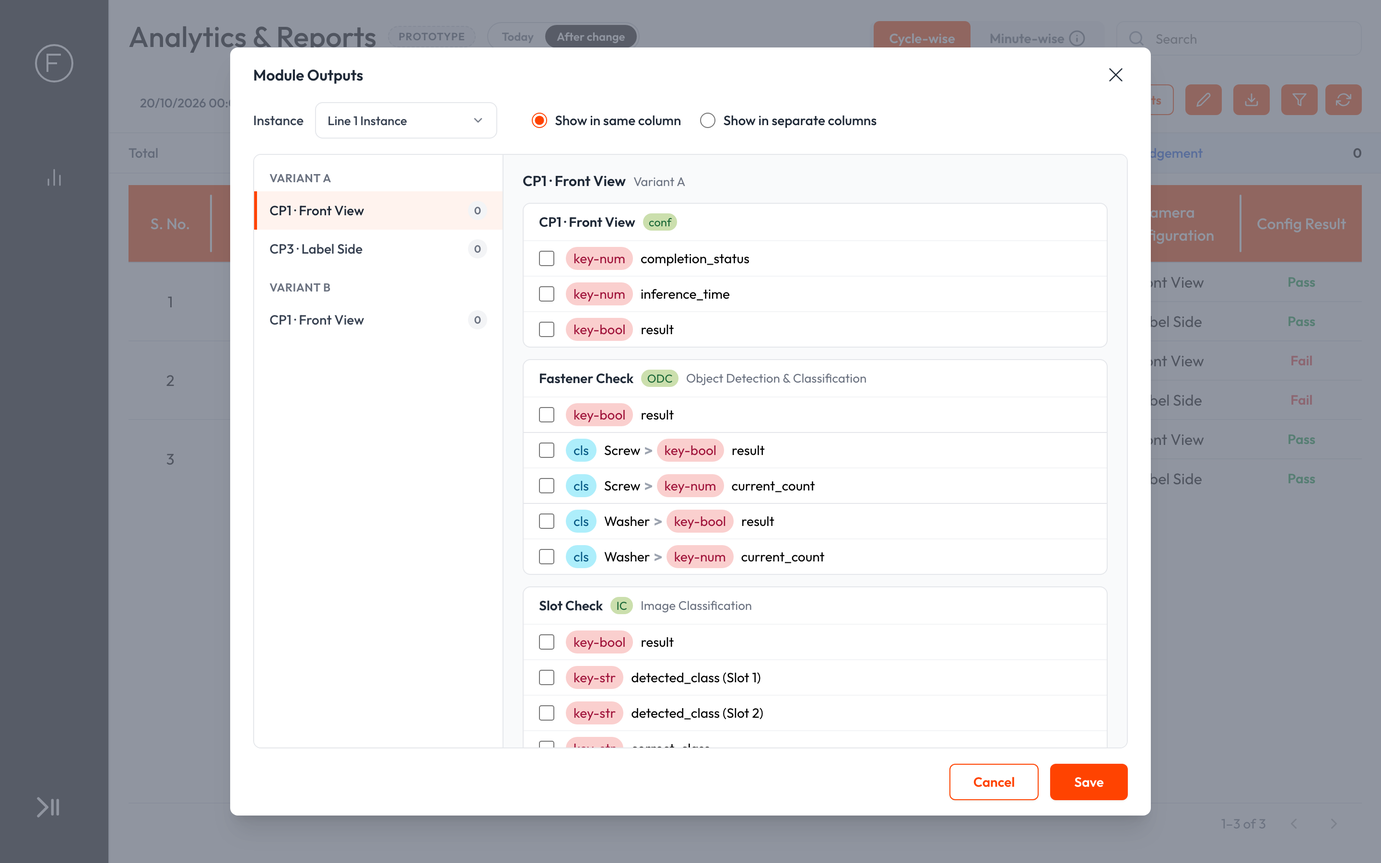
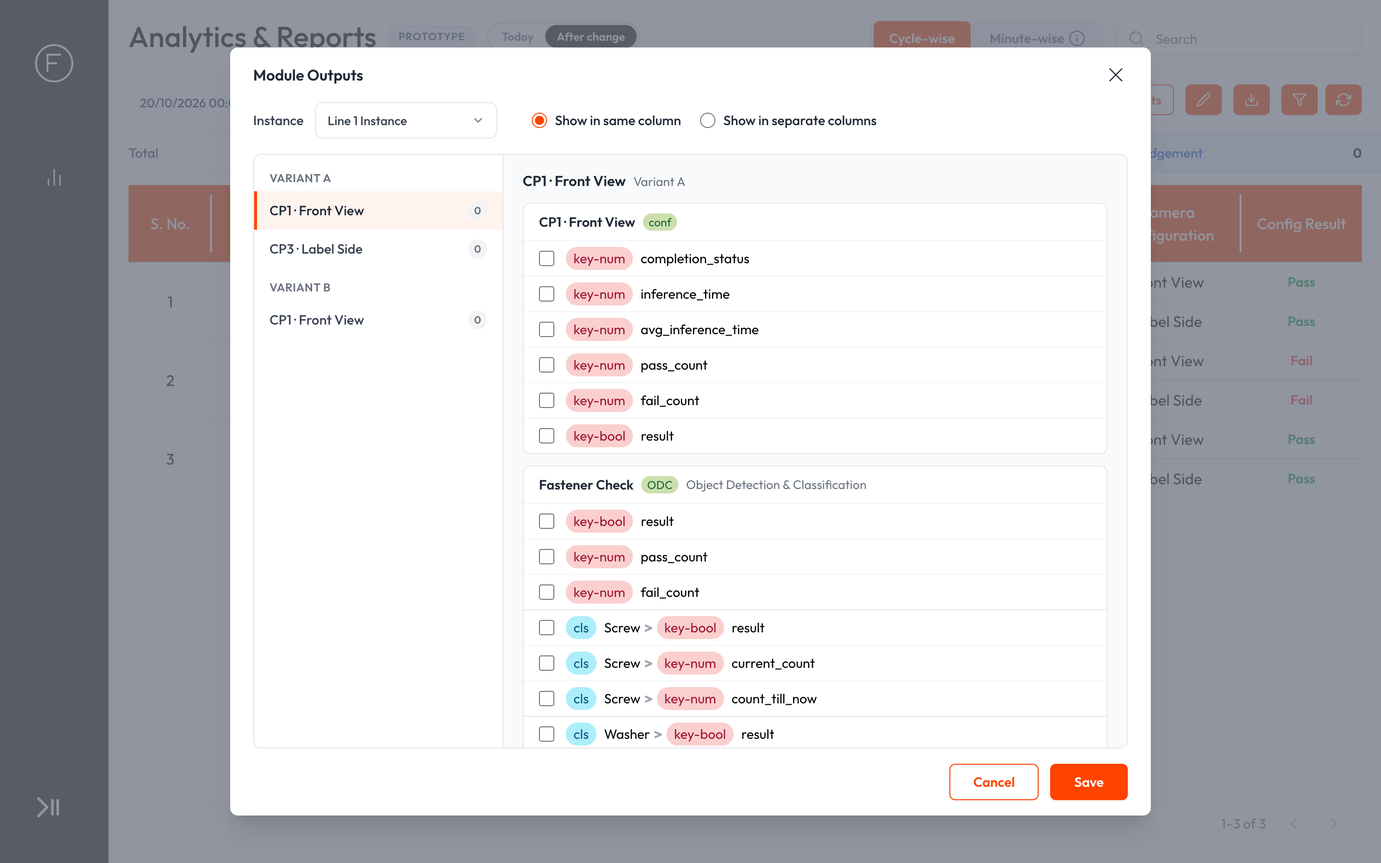
Module Outputs PRD: Q1 and Q3 decided, running totals offered, per-line shape keys

Changed region(s): [[0.375, 0.3733, 0.625, 0.8711], [0.5938, 0.4356, 0.625, 0.4667]]

diff --git a/2026-10-20-module-outputs-reports/prototype/shared.js b/2026-10-20-module-outputs-reports/prototype/shared.js
@@ -21,28 +21,33 @@
   // ---------- Edge system keys each capture offers (systemKeyDefinition.ts) ----------
   // t = datatype (1 bool, 2 str, 3 num); s = suffix exactly as stored; sample = Display Name in the sample setup (ticked).
   const K = (t, s, sample) => ({ t, s, sample: sample || null });
-  // Keys that add up or average across cycles (pass_count, fail_count, count_till_now, avg_inference_time) are not offered.
-  const modKeys = () => [K(1, 'result')];
+  const modKeys = () => [K(1, 'result'), K(3, 'pass_count'), K(3, 'fail_count')];
   const confCard = (cap) => ({ name: `${cap.pos} · ${cap.name}`, code: 'conf', conf: true, keys: [
-    K(3, 'completion_status'), K(3, 'inference_time'), K(1, 'result')] });
-  const clsKeys = (cls, countName) => ({ name: cls, keys: [K(1, 'result'), K(3, 'current_count', countName)] });
+    K(3, 'completion_status'), K(3, 'inference_time'), K(3, 'avg_inference_time'),
+    K(3, 'pass_count'), K(3, 'fail_count'), K(1, 'result')] });
+  const clsKeys = (cls, countName) => ({ name: cls, keys: [K(1, 'result'), K(3, 'current_count', countName),
+    K(3, 'count_till_now')] });
   // Dimensions: the same five variant-level keys, listed under each capture the dimension measures.
   const dimCard = (name, sample, cross) => ({ id: 'DIM:' + name, name, type: 'Dimensions', code: 'DIM', cross: cross || null, keys: [
     K(1, 'dim_result'), K(3, 'dim_predicted_value', sample), K(2, 'dim_unit_used'), K(2, 'dim_process'), K(2, 'dim_current_gt')] });
   const seKeys = (shape) => [K(3, `shape:${shape}_angle`), K(3, `shape:${shape}_length`), K(3, `shape:${shape}_error_pct`)];
+  // Edge Search: error % plus the per-line keys Edge now registers (lines 1 … the shape's maximum results).
+  const edgeSearchKeys = (shape, lines) => [K(3, `shape:${shape}_error_pct`)].concat(
+    Array.from({ length: lines }, (_, i) => [K(3, `shape:${shape}_line:${i + 1}_angle`), K(3, `shape:${shape}_line:${i + 1}_length`)]).flat());
 
   const A_CP1 = [
     { name: 'Fastener Check', type: 'Object Detection & Classification', code: 'ODC', keys: modKeys(),
       classes: [clsKeys('Screw', 'Screw count'), clsKeys('Washer', 'Washer count')] },
     { name: 'Slot Check', type: 'Image Classification', code: 'IC', keys: modKeys().concat([
       K(2, 'detected_class (Slot 1)', 'Slot 1 class'), K(2, 'detected_class (Slot 2)', 'Slot 2 class'), K(2, 'correct_class')]) },
-    { name: 'Bracket Edge', type: 'Shape Extractor', code: 'SE', keys: seKeys('Bracket') },
+    { name: 'Bracket Edge', type: 'Shape Extractor', code: 'SE', lines: true, keys: edgeSearchKeys('Bracket', 2) },
     // Cross-capture: measured from Bracket Edge here to Label Edge in CP3; ticked under CP3 only in the sample.
     dimCard('Distance_LabelGap', null, 'Front View, Label Side'),
   ];
   const A_CP3 = [
     { name: 'Serial Reader', type: 'OCR', code: 'OCR', keys: modKeys().concat([
-      K(2, 'detected_text', 'Serial No.'), K(2, 'labelName:Serial_gt_text'), K(1, 'labelName:Serial_result')]) },
+      K(2, 'detected_text', 'Serial No.'), K(2, 'labelName:Serial_gt_text'), K(1, 'labelName:Serial_result'),
+      K(2, 'labelName:Serial_pass_count'), K(2, 'labelName:Serial_fail_count')]) },
     { name: 'QR Reader', type: 'Code Reader', code: 'CR', keys: modKeys().concat([
       K(2, 'detected_string', 'QR code'), K(2, 'gt_string')]) },
     { name: 'Surface Check', type: 'Segmentation', code: 'SEG', keys: [] },
@@ -51,12 +56,13 @@
   ];
   const B_CP1 = [
     { name: 'Seal Check', type: 'Bead Inspection', code: 'BEAD', keys: [
-      K(1, 'result', 'Bead result'),
+      K(1, 'result', 'Bead result'), K(3, 'pass_count'), K(3, 'fail_count'),
       K(3, 'caliper_pass_percentage', 'Caliper pass %'), K(2, 'bead_class_name'), K(1, 'bead:Door seal_result'),
+      K(3, 'bead:Door seal_pass_count'), K(3, 'bead:Door seal_fail_count'),
       K(1, 'bead:Door seal_bead_width'), K(1, 'bead:Door seal_bead_gap/position')] },
     { name: 'Cap Colour', type: 'Colour Detection', code: 'CD', keys: modKeys().concat([
-      K(2, 'colorName:Red_detected_color'), K(1, 'colorName:Red_result'),
-      K(3, 'colorName:Red_distribution_percentage', 'Red coverage')]) },
+      K(2, 'colorName:Red_detected_color'), K(1, 'colorName:Red_result'), K(3, 'colorName:Red_pass_count'),
+      K(3, 'colorName:Red_fail_count'), K(3, 'colorName:Red_distribution_percentage', 'Red coverage')]) },
     { name: 'Hole Fit', type: 'Shape Extractor', code: 'SE', keys: [
       K(3, 'shape:Hole_radius', 'Hole radius'), K(3, 'shape:Hole_perimeter'), K(3, 'shape:Hole_area'),
       K(3, 'shape:Hole_circularity'), K(3, 'shape:Hole_convexity'),
@@ -153,7 +159,8 @@
       'ODC|result': b(odcOk), 'ODC|cls:Screw|result': b(odcOk), 'ODC|cls:Screw|current_count': String(screws),
       'ODC|cls:Washer|result': 'true', 'ODC|cls:Washer|current_count': '2',
       'IC|result': b(icOk), 'IC|detected_class (Slot 1)': 'Good', 'IC|detected_class (Slot 2)': slot2, 'IC|correct_class': 'Good',
-      'SE|shape:Bracket_angle': angle, 'SE|shape:Bracket_length': '184.30', 'SE|shape:Bracket_error_pct': '0.42' }, dimOut(gap));
+      'SE|shape:Bracket_error_pct': '0.42', 'SE|shape:Bracket_line:1_angle': angle, 'SE|shape:Bracket_line:1_length': '184.30',
+      'SE|shape:Bracket_line:2_angle': '-0.31', 'SE|shape:Bracket_line:2_length': '96.12' }, dimOut(gap));
   }
   function cp3Out(serial, code, ms, angle, gap) {
     const read = code !== '—';

diff --git a/2026-10-20-module-outputs-reports/prototype/reports.html b/2026-10-20-module-outputs-reports/prototype/reports.html
@@ -554,7 +554,7 @@ td.empty{padding:8px;text-align:center;font-size:16px;color:var(--label);backgro
   </div>
 </div>
 
-<script src="shared.js?v=20261026b"></script>
+<script src="shared.js?v=20261026c"></script>
 <script>
 (function () {
   const $ = (id) => document.getElementById(id);
@@ -664,7 +664,7 @@ td.empty{padding:8px;text-align:center;font-size:16px;color:var(--label);backgro
   const params = new URLSearchParams(location.search);
   const mode = MO.modeFromUrl();
   const rawState = params.get('state') || '';
-  const ALIAS = { reports: 'table', 'setup-empty': 'setup', setup: 'choose', 'setup-cross': 'choose', 'setup-more': 'more-modules', 'setup-more-end': 'more-modules' };
+  const ALIAS = { reports: 'table', 'setup-empty': 'setup', setup: 'choose', 'setup-cross': 'choose', 'setup-lines': 'choose', 'setup-more': 'more-modules', 'setup-more-end': 'more-modules' };
   const STEPS = ['table', 'setup', 'instance', 'choose', 'setup-separate', 'more-modules', 'restart', 'before-restart', 'column', 'separate', 'edit-table', 'search', 'no-permission'];
   let step = ALIAS[rawState] || rawState;
   if (!STEPS.includes(step)) step = mode === 'after' ? 'column' : 'table';
@@ -917,7 +917,7 @@ td.empty{padding:8px;text-align:center;font-size:16px;color:var(--label);backgro
     if (!M.inst || !M.sel) { $('capPane').innerHTML = ''; refreshErrors(); return; }
     const cap = CAP[M.sel];
     $('capPane').innerHTML = `<div class="pane-h"><b>${cap.pos} · ${cap.name}</b><span>${cap.variant}</span></div>` +
-      cap.cards.map((m) => `<section class="mcard"${m.cross ? ' data-cross="1"' : ''}><div class="mcard-h"><b>${esc(m.name)}</b>${chip('g', m.code)}${m.conf ? '' : `<span>${esc(m.type)}</span>`}` +
+      cap.cards.map((m) => `<section class="mcard"${m.cross ? ' data-cross="1"' : ''}${m.lines ? ' data-lines="1"' : ''}><div class="mcard-h"><b>${esc(m.name)}</b>${chip('g', m.code)}${m.conf ? '' : `<span>${esc(m.type)}</span>`}` +
         (m.cross ? `<span>· ${esc(m.cross)}</span><span class="bdg purple">⇄ CROSS-CAPTURE</span>` : '') + '</div>' +
         (m.rows.length ? m.rows.map((k, i) => {
           const groupStart = k.cls && i > 0 && m.rows[i - 1].cls !== k.cls;
@@ -1186,7 +1186,7 @@ td.empty{padding:8px;text-align:center;font-size:16px;color:var(--label);backgro
   if (after && step === 'setup') openModal('A-CP1');
   else if (after && step === 'instance') { openModal('A-CP1'); openInstPanel(); }
   else if (after && (step === 'choose' || step === 'setup-separate')) {
-    openModal('A-CP3');
+    openModal(rawState === 'setup-lines' ? 'A-CP1' : 'A-CP3');
     if (step === 'setup-separate' && M.inst) { Dr().mode = 'separate'; renderTop(); }
     showFirstTicked();
   } else if (after && step === 'more-modules') {
@@ -1205,6 +1205,7 @@ td.empty{padding:8px;text-align:center;font-size:16px;color:var(--label);backgro
   }
   // Separate columns step: start scrolled to the key columns at the right end.
   if (step === 'separate') $('tscroll').scrollLeft = $('tscroll').scrollWidth;
+  if (rawState === 'setup-lines') { const x = $('capPane').querySelector('[data-lines]'); if (x) $('capPane').scrollTop = x.offsetTop - $('capPane').offsetTop - 12; }
   if (rawState === 'setup-cross') { const x = $('capPane').querySelector('[data-cross]'); if (x) $('capPane').scrollTop = x.offsetTop - $('capPane').offsetTop - 12; }
   if (params.get('toast') === 'saved') toast('Module Outputs saved');
   // ?open=<cycle>:<result|raw>:<image> (1-based) opens the image viewer on load, e.g. ?open=2:result:2

diff --git a/2026-10-20-module-outputs-reports/prototype/excel.html b/2026-10-20-module-outputs-reports/prototype/excel.html
@@ -149,7 +149,7 @@ a.hl{color:#0563C1;text-decoration:underline}
     <span class="zm"><span>−</span><span class="bar"><b></b></span><span>+</span><span id="zoomPct">80%</span></span></div>
 </div>
 
-<script src="shared.js?v=20261026b"></script>
+<script src="shared.js?v=20261026c"></script>
 <script>
 (function () {
   const $ = (id) => document.getElementById(id);

diff --git a/2026-10-20-module-outputs-reports/prototype/index.html b/2026-10-20-module-outputs-reports/prototype/index.html
@@ -93,7 +93,7 @@
     const q = [];
     if (step.state) q.push('state=' + step.state);
     q.push('mode=' + mode);
-    q.push('v=20261026b');
+    q.push('v=20261026c');
     if (extra) Object.keys(extra).forEach((k) => q.push(k + '=' + encodeURIComponent(extra[k])));
     return step.file + '?' + q.join('&');
   }

diff --git a/2026-10-20-module-outputs-reports/PRD-module-outputs-reports.md b/2026-10-20-module-outputs-reports/PRD-module-outputs-reports.md
@@ -11,15 +11,10 @@
 ---
 
 ## Discussion points
-Everything still to be settled.
-
-| # | Point to settle | Options on the table | Owner | Needed by |
-|---|---|---|---|---|
-| Q1 | After release, how will we judge success? For example, a plant admin sets up Module Outputs once, and support stops opening View JSON for customers. What numbers should we aim for in section 8? | A share of upgraded Edge boxes with Module Outputs set up within a set time; a drop in support requests that need View JSON; no open customer requests for module values | Tanay Deo | Before approval |
-| Q3 | Some values a quality engineer would want have no key today: image classification confidence, OCR text per label, tilt angle, and bead incorrect calipers and gap sizes. They are stored with each cycle. Add keys for them? | Add new keys in this release (more Edge work); leave them out of v1 and raise a follow-up | Tanay Deo | Before approval |
+None open. Q1 (success targets) and Q3 (keys for values that have none) were decided on 26 October 2026; see the changelog.
 
 ## 1. Summary
-- Reports & Analytics gets a **Module Outputs** button. It opens a setup window for the selected instance, listing every capture (grouped by variant) and, for each module, its **keys exactly as Edge shows them today** in PLC Write and Dashboard Builder (for example `[cls] Screw > [key-num] current_count`). Keys that add up or average across cycles, such as pass and fail counts, are not offered.
+- Reports & Analytics gets a **Module Outputs** button. It opens a setup window for the selected instance, listing every capture (grouped by variant) and, for each module, its **keys exactly as Edge shows them today** in PLC Write and Dashboard Builder (for example `[cls] Screw > [key-num] current_count`). Every key Edge has today is offered, including running totals such as pass and fail counts, plus the per-line angle and length keys of Edge Search and Parallel Lines shapes, which Edge writes today but never listed; these also appear in PLC Write, Internal Action Config and Dashboard Builder.
 - Each capture also lists its **dimensions**: those measured within the capture, and those measured across it and another capture.
 - Ticking a key shows a **Display Name** box. The person types the name the value appears under on the Reports page, for example "Screw count" or "Serial No.".
 - The window opens on the instance shown in the Reports table, with an **Instance** dropdown to set up any other instance on the box.
@@ -47,11 +42,11 @@ Everything still to be settled.
 - New search or filter controls for module values. The existing Search box is enough.
 - Fast Mode lines (Minute-wise), which store no per-capture results.
 - Values no key holds today, such as the default text of conditional classification, bead width in pixels (the `_bead_width` key is a pass/fail flag) and per-caliper widths.
-- New keys. Values with no key today stay out (see Q3).
-- Any change to how OK or NG is decided, or to PLC and dashboard keys.
+- New keys for values that have no key today. The only keys Edge adds are the per-line shape keys it already writes (AC3.15).
+- Any change to how OK or NG is decided, or to the PLC and dashboard keys that exist today.
 
 ## 4. Key concepts
-- **Key:** a named value Edge keeps for an instance, capture, module, class, search area or label, the same keys offered today in PLC Write, Internal Actions and Dashboard Builder (for example `current_count` of class Screw).
+- **Key:** a named value Edge keeps for an instance, capture, module, class, search area or label, the same keys offered today in PLC Write, Internal Actions and Dashboard Builder (for example `current_count` of class Screw), plus the per-line shape keys of AC3.15.
 - **Display Name:** the name a ticked key's value appears under on the Reports page and in the Excel, typed by the person setting it up.
 - **Key copy:** the value a ticked key held when its capture finished, saved by Edge with that capture in the cycle. Only ticked keys are copied. Reports shows key copies, never today's live value.
 - **Setup in use:** while an instance is running, the setup its deployment started with; changes saved meanwhile go into use at the next start. While the instance is not running, its saved setup is in use.
@@ -66,15 +61,15 @@ The parts this changes. Parts checked and not affected are listed at the very en
 |---|---|---|
 | Reports & Analytics (edge-reports-analytics) | New Module Outputs button and setup window; restart pop-up when saving on a running instance; new Module Outputs column on each capture row; new Edit Table option; new Excel column; the column is searchable | US1, US2, US4, US5, US8, US13 |
 | Edge access & audit (edge-access-audit) | Saving the setup needs Update on Analytics & Reports, checked by the report server; every save is written to the audit log | US7 |
-| Object Detection (mod-odc) | Offers its module `result` and, per output class, `result` and `current_count` | US3, US9 |
-| Image Classification (mod-classification) | Offers `result`, `detected_class (<search area>)` per area and `correct_class` | US3, US9 |
-| OCR (mod-ocr) | Offers `detected_text`; in Read & Match also `result` and each label's `_gt_text` and `_result` | US3, US9 |
-| Code Reader (mod-code-reader) | Offers `detected_string`; in Read & Match also `result` and `gt_string` | US3, US9 |
-| Segmentation (mod-segmentation) | Offers its keys only with single-class output on; in normal mode it has no keys, so nothing is shown for it | US3, US9 |
-| Bead Inspection (mod-bead-inspection) | Offers `result`, `caliper_pass_percentage`, `bead_class_name` and per-bead `bead:<bead>_…` keys, without pass and fail counts | US3, US9 |
-| Colour Detection (mod-color-detection) | Offers `result` and per-colour `_detected_color`, `_result` and `_distribution_percentage` | US3, US9 |
-| Shape Extractor (mod-shape-extractor) | Offers per-shape `shape:<shape>_…` measurement keys; each dimension, within one capture or across two, offers its five `dim_…` keys under each capture it measures | US3, US9, US12 |
-| Orientation & Tilt (mod-orientation) | Offers its module `result` | US3, US9 |
+| Object Detection (mod-odc) | Offers its module keys and, per output class, `result`, `current_count` and `count_till_now` | US3, US9 |
+| Image Classification (mod-classification) | Offers its module keys, `detected_class (<search area>)` per area and `correct_class` | US3, US9 |
+| OCR (mod-ocr) | Offers `detected_text`; in Read & Match also its module keys and each label's `labelName:<label>_…` keys | US3, US9 |
+| Code Reader (mod-code-reader) | Offers `detected_string`; in Read & Match also its module keys and `gt_string` | US3, US9 |
+| Segmentation (mod-segmentation) | Offers its keys only with single-class output on; in normal mode its card shows "No keys" and nothing is shown for it in Reports | US3, US9 |
+| Bead Inspection (mod-bead-inspection) | Offers its module keys, `caliper_pass_percentage`, `bead_class_name` and per-bead `bead:<bead>_…` keys | US3, US9 |
+| Colour Detection (mod-color-detection) | Offers its module keys and per-colour `colorName:<colour>_…` keys | US3, US9 |
+| Shape Extractor (mod-shape-extractor) | Offers per-shape `shape:<shape>_…` measurement keys, and registers the per-line angle and length keys of Parallel Lines and Edge Search shapes; each dimension, within one capture or across two, offers its five `dim_…` keys under each capture it measures | US3, US9, US11, US12 |
+| Orientation & Tilt (mod-orientation) | Offers its module keys (`result`, `pass_count`, `fail_count`) | US3, US9 |
 | Tracker (mod-tracker) | Not offered: it has no keys and produces no result on Edge today | US3 |
 | Matting (mod-matting) | Not offered: it has no keys | US3 |
 | Instance upload on Edge (edge-instance-details) | A re-upload keeps the setup; removed captures, modules and classes drop out of it; deleting the instance deletes it | US6, US11 |
@@ -82,11 +77,14 @@ The parts this changes. Parts checked and not affected are listed at the very en
 | Cycles and result storage (edge-inferencing-customization) | Saves a copy of each ticked key with the capture's row as the capture finishes, and of cross-capture dimensions when the cycle ends; a module that did not run is saved as "Not run"; keeps saving the setup in use until the restart | US12, US13, US9 |
 | Python engine (engine-workflow) | No change: results are produced and sent exactly as today | US9 |
 | Result module (mod-result) | No change: OK and NG are decided exactly as today | US9 |
-| Actions (edge-actions) | Write to DB rules that copy values into Additional Info columns keep working | US8 |
+| Actions (edge-actions) | Write to DB rules that copy values into Additional Info columns keep working; rules can use the per-line shape keys like any other key | US8, US3 |
+| PLC Write (edge-plc-write) | Its key picker also lists the per-line shape keys | US3 |
+| Internal Action Config (edge-internal-actions) | Its key picker also lists the per-line shape keys | US3 |
+| Dashboard Builder (edge-dashboard-builder) | Its key picker also lists the per-line shape keys | US3 |
 | Deployments (edge-deployment) | Deploy and Restart All Deployments put the saved setup in use; Fast Mode deployments get no Module Outputs, as they store no per-capture results | US13, US8 |
 | Health Monitoring (edge-health) | Storage cleanup deletes key copies together with their capture rows, and counts them in the data limit | US12 |
 | Backup and migration (edge-backup-migration) | The saved setup is created on upgrade and survives every later upgrade | US11, US12 |
-| Release and upgrades (edge-release-upgrade) | Ships in the scripts bundle as a normal release, with one database addition | US10 |
+| Release and upgrades (edge-release-upgrade) | Ships in the scripts bundle as a normal release, with database additions for the setup and the key copies | US10 |
 
 ## 6. User stories and acceptance criteria
 
@@ -136,31 +134,34 @@ The parts this changes. Parts checked and not affected are listed at the very en
 ### US3 — Values each module offers
 *As a quality engineer, I want to see the same keys Edge already uses for PLC and dashboards, so that what I pick for Reports matches what the line already knows.*
 - **Kind:** Feature
-- **Parts:** mod-odc, mod-classification, mod-ocr, mod-code-reader, mod-segmentation, mod-bead-inspection, mod-color-detection, mod-shape-extractor, mod-orientation, mod-tracker, mod-matting
+- **Parts:** mod-odc, mod-classification, mod-ocr, mod-code-reader, mod-segmentation, mod-bead-inspection, mod-color-detection, mod-shape-extractor, mod-orientation, mod-tracker, mod-matting, edge-plc-write, edge-internal-actions, edge-dashboard-builder, edge-actions
 - **Teams:** SDE
 - **Covers:** C2, C12
-- **Today:** These keys are offered in PLC Write, Internal Actions and Dashboard Builder. Their per-cycle values sit inside each cycle's stored result, keyed by ids, visible only in View JSON.
+- **Today:** These keys are offered in PLC Write, Internal Actions and Dashboard Builder, except the per-line shape keys, which Edge writes but never lists. Their per-cycle values sit inside each cycle's stored result, keyed by ids, visible only in View JSON.
 - **Prototype:** [Step 4: Other module types](https://vbv-fr.github.io/module-outputs-prototype/#more-modules)
 
 ![After: capture, bead and colour keys for one capture](prototype/setup-more.png)
 ![After: shape, tilt and dimension keys for the same capture](prototype/setup-more-end.png)
 ![After: a cross-capture dimension in the Dimensions card of CP3 · Label Side](prototype/setup-cross.png)
+![After: an Edge Search shape with its per-line angle and length keys](prototype/setup-lines.png)
 
-The list is the set of keys Edge creates for the instance today, without the keys in AC3.13; no other key is shown.
-- **AC3.1** Each capture offers its own keys: `result`, `inference_time` and `completion_status`.
-- **AC3.2** Object Detection & Classification offers `result`, and for each output class `result` and `current_count`.
-- **AC3.3** Image Classification offers `result`, `detected_class (<search area>)` for each search area, and `correct_class`.
-- **AC3.4** OCR offers `detected_text`. In Read & Match it also offers `result` and, for each label, `labelName:<label>_gt_text` and `labelName:<label>_result`.
-- **AC3.5** Code Reader offers `detected_string`. In Read & Match it also offers `result` and `gt_string`.
-- **AC3.6** Segmentation offers `result`, `detected_class` and `correct_class` only when its single-class output is on.
-- **AC3.7** Bead Inspection offers `result`, `caliper_pass_percentage` and `bead_class_name`, and for each bead `bead:<bead>_result`, `_bead_width` and `_bead_gap/position`.
-- **AC3.8** Colour Detection offers `result`, and for each colour `colorName:<colour>_detected_color`, `_result` and `_distribution_percentage`.
+The list is every key Edge creates for the instance today, running totals included, plus the per-line shape keys of AC3.15; no other key is shown.
+- **AC3.1** Each capture offers its own keys: `result`, `inference_time`, `avg_inference_time`, `pass_count`, `fail_count` and `completion_status`.
+- **AC3.2** Object Detection & Classification offers `result`, `pass_count` and `fail_count`, and for each output class `result`, `current_count` and `count_till_now`.
+- **AC3.3** Image Classification offers `result`, `pass_count`, `fail_count`, `detected_class (<search area>)` for each search area, and `correct_class`.
+- **AC3.4** OCR offers `detected_text`. In Read & Match it also offers `result`, `pass_count`, `fail_count` and, for each label, `labelName:<label>_gt_text`, `labelName:<label>_result`, `labelName:<label>_pass_count` and `labelName:<label>_fail_count`.
+- **AC3.5** Code Reader offers `detected_string`. In Read & Match it also offers `result`, `pass_count`, `fail_count` and `gt_string`.
+- **AC3.6** Segmentation offers `result`, `pass_count`, `fail_count`, `detected_class` and `correct_class` only when its single-class output is on.
+- **AC3.7** Bead Inspection offers `result`, `pass_count`, `fail_count`, `caliper_pass_percentage` and `bead_class_name`, and for each bead `bead:<bead>_result`, `_pass_count`, `_fail_count`, `_bead_width` and `_bead_gap/position`.
+- **AC3.8** Colour Detection offers `result`, `pass_count` and `fail_count`, and for each colour `colorName:<colour>_detected_color`, `_result`, `_pass_count`, `_fail_count` and `_distribution_percentage`.
 - **AC3.9** Shape Extractor offers, for each shape, the `shape:<shape>_…` keys of its shape type: radius, perimeter, area, circularity, convexity, contour_continuity, error_pct, angle, length, major_axis, minor_axis, line_1 to line_4, diagonal_1, diagonal_2 and sector_angle, as Edge registers them.
-- **AC3.10** Orientation & Tilt Check offers `result`. Each dimension measured within one capture offers `dim_result`, `dim_predicted_value`, `dim_unit_used`, `dim_process` and `dim_current_gt`, in a card at the end of the capture it belongs to.
+- **AC3.10** Orientation & Tilt Check offers `result`, `pass_count` and `fail_count`. Each dimension measured within one capture offers `dim_result`, `dim_predicted_value`, `dim_unit_used`, `dim_process` and `dim_current_gt`, in a card at the end of the capture it belongs to.
 - **AC3.11** Tracker, Matting, Orientator, Masking, Search Area Allocator and the master image have no keys here and are not listed.
 - **AC3.12** Values show as they would in the key: numbers with up to 2 decimals, `distribution_percentage` as a percentage, true/false keys as "OK" or "NG".
-- **AC3.13** Keys that add up or average across cycles are not offered: every `pass_count` and `fail_count` (capture, module, label, colour and bead), `count_till_now` and `avg_inference_time`.
+- **AC3.13** (removed — running totals are offered again; like every key, each cycle shows the copy saved when its capture finished, AC4.3)
 - **AC3.14** A dimension measured across two captures offers the same five `dim_…` keys in a card at the end of each of the two captures, under its name from Dimension Configuration, with both capture names and the "⇄ CROSS-CAPTURE" badge. It is ticked and named separately under each capture, and shows only on the rows of the captures it is ticked under.
+- **AC3.15** Each Edge Search and Parallel Lines shape also offers, for each line it can find, `shape:<shape>_line:<n>_angle` and `shape:<shape>_line:<n>_length`: lines 1 and 2 for Parallel Lines, and lines 1 up to the shape's maximum results for Edge Search.
+- **AC3.16** These per-line keys are registered like every other Edge key, so PLC Write, Internal Action Config and Dashboard Builder list them too. Edge Search line values update with each capture; Parallel Lines line keys stay empty until the engine supports Parallel Lines.
 
 ### US4 — See Module Outputs in the table
 *As a quality engineer, I want each capture's chosen values on its row, so that I can see at a glance why a cycle failed or which part it was.*
@@ -297,7 +298,7 @@ The list is the set of keys Edge creates for the instance today, without the key
 - **Teams:** SDE
 - **Covers:** C8, C9
 
-- **AC9.1** OK and NG for every capture and cycle, PLC writes and dashboard keys are unchanged.
+- **AC9.1** OK and NG for every capture and cycle, PLC writes and existing dashboard keys are unchanged.
 - **AC9.2** Edge keeps storing each module's full result for every capture of every cycle, exactly as today.
 - **AC9.3** (removed — the only added work per image is saving key copies, covered by AC12.5)
 
@@ -310,15 +311,15 @@ The list is the set of keys Edge creates for the instance today, without the key
 
 - **AC10.1** Node Docker image: no change. No new libraries are needed; the Excel export already has one.
 - **AC10.2** Python Docker image: no change. The engine is not touched.
-- **AC10.3** Scripts bundle: changes. It carries the Reports app (screen and server), the inference service change for key copies, and the Edge database additions for the saved setup, the setup in use and the key copies.
+- **AC10.3** Scripts bundle: changes. It carries the Reports app (screen and server), the inference service change for key copies, the registration of the per-line shape keys, and the Edge database additions for the saved setup, the setup in use and the key copies.
 - **AC10.4** Installer: no change. Database additions already run on every install and update.
 - **AC10.5** New error codes: RPT-MOUT-001 and RPT-MOUT-002 (AC2.6, AC1.6). The report server logs them; they are not added to the Health page.
-- **AC10.6** The Edge manual's Analytics & Reports section describes the Module Outputs button, the setup window, the restart pop-up, the column and the Excel column, with new screenshots. Release note: "Reports & Analytics can now show chosen module and dimension keys, such as counts, classes, read text, codes and measurements, under your own Display Names in a new Module Outputs column. Changes made while an instance is running apply after its deployment restarts."
+- **AC10.6** The Edge manual's Analytics & Reports section describes the Module Outputs button, the setup window, the restart pop-up, the column and the Excel column, with new screenshots. Release note: "Reports & Analytics can now show chosen module and dimension keys, such as counts, classes, read text, codes and measurements, under your own Display Names in a new Module Outputs column. Changes made while an instance is running apply after its deployment restarts. Edge Search line angles and lengths are now available as keys in PLC Write, Internal Action Config and Dashboard Builder."
 
 ### US11 — Migration requirements
 *As a Frinks support engineer, I want upgrades to keep every box's data and setup, so that no plant loses its reports or has to set them up again.*
 - **Kind:** Migration
-- **Parts:** edge-backup-migration, edge-instance-details
+- **Parts:** edge-backup-migration, edge-instance-details, mod-shape-extractor
 - **Teams:** SDE
 - **Covers:** C6, C7, C15
 
@@ -326,23 +327,19 @@ The list is the set of keys Edge creates for the instance today, without the key
 - **AC11.2** The saved setup survives restarts and every later Edge upgrade.
 - **AC11.3** An older Edge with a new instance: nothing changes, because the instance package is not touched. The new Edge with an older instance: Module Outputs offers that instance's values like any other.
 - **AC11.4** Edge boxes in the field get it as a normal release. It works offline.
+- **AC11.5** Instances uploaded before the upgrade get the per-line shape keys after the upgrade, with no re-upload.
 
 ## 7. Out of scope
 - New search or filter controls for module values.
-- Values that have no key today, such as image classification confidence, OCR text per label, tilt angle, and bead incorrect calipers and gap sizes (see Q3).
+- Values that have no key today, such as image classification confidence, the text read for each OCR label, tilt angle, and bead incorrect calipers and gap sizes. No new keys are added for them.
 - Segmentation in normal mode, which has no keys.
-- Keys that add up or average across cycles: pass and fail counts, count till now, average inference time.
 - Tracker counts. The tracker produces no result on Edge today, so it needs its own fix first.
 - Matting mask counts.
 - Copying a setup from one variant or instance to another.
 - Module Outputs on the Live Dashboard, PLC or Minute-wise reports.
 
 ## 8. How we'll know it worked
-| Measure | Target |
-|---|---|
-| Edge boxes on this release with Module Outputs set up for at least one instance (from the audit log) | Q1 |
-| Support requests that need someone to read View JSON for a customer | Q1 |
-| Customer requests for module values in reports still open after release | None open |
+No success targets are set for this release (decided 26 October 2026).
 
 ## Appendix A — Coverage
 **Not applicable:**
@@ -352,10 +349,10 @@ The list is the set of keys Edge creates for the instance today, without the key
 
 **Result:** PASS, 3 warnings
 
-- 13 user stories (8 feature, 1 rules, 2 keeps working, 1 platform, 1 migration), 88 ACs (3 marked removed), 23 touched parts, 2 discussion points.
+- 13 user stories (8 feature, 1 rules, 2 keeps working, 1 platform, 1 migration), 91 ACs (4 marked removed), 26 touched parts, 0 discussion points.
 - Checklist: 17 items covered by stories, 1 N/A, 0 open.
 - Warnings kept on purpose: AC8.4 and AC12.4 contain "Fast", the product name "Fast Mode"; US3 and the impact map name keys such as `current_count`, which are the names users see in Edge's key picker, not code.
-- Every punchlist item I1–I88 in notes.md maps to exactly one AC (I-items for AC1.5, AC8.6 and AC9.3 marked removed).
+- Every punchlist item I1–I91 in notes.md maps to exactly one AC (I-items for AC1.5, AC3.13, AC8.6 and AC9.3 marked removed).
 
 ## Appendix B — Code references
 For the ticket skill and developers. Paths are relative to each repo.
@@ -368,13 +365,15 @@ For the ticket skill and developers. Paths are relative to each repo.
 - **Instance upload:** `frinksedge-deployment-backend`: `src/service/instance.ts:908-950, 1411-1469, 1856-1869, 2230-2267, 2610-2693` — dropped captures, label merge, id-keeping upsert, delete, per-instance module settings reconcile (`module_class_roi_config` precedent).
 - **Database and upgrades:** `frinksedge-deployment-backend`: `dump.sql:2823-2869` (per-instance × module table precedent), `dump.sql:2969-2974` (repeat-capture delete replayed at every update; the replay must not erase or reset the Module Outputs setup, AC11.2); `frinksedge-installer-electron`: `src/main.js:265, 387, 512` — dump replay with `--force`; `release-manager-backend`: `src/services/edgeSchemaRegistry.ts:11-13, 169-182` — schema registration on new tables.
 - **Health cleanup:** `frinksedge-health`: `src/service/storageMonitor.ts:164-200, 595-686`.
-- **Keys offered:** `frinksedge-deployment-backend`: `src/dao/systemKeyDefinition.ts:39-111` — `pass_count`/`fail_count` at every level, `count_till_now`, `avg_inference_time` (left out, AC3.13); `:113-120` — dimension keys at variant level, the same five for single- and cross-capture dimensions. `frinksedge-inferencing-backend`: `src/cycle/cycle-manager.service.ts:542-556` — `avg_inference_time` is the mean of the last 10 inference times; `src/key/key-writer/system-key-writer/system-key-writer.service.ts:101-104` — `completion_status` is 1 once the capture reports.
+- **Keys offered:** `frinksedge-deployment-backend`: `src/dao/systemKeyDefinition.ts:39-111` — `pass_count`/`fail_count` at every level, `count_till_now`, `avg_inference_time` (offered, AC3.1–AC3.10); `:113-120` — dimension keys at variant level, the same five for single- and cross-capture dimensions. `frinksedge-inferencing-backend`: `src/cycle/cycle-manager.service.ts:542-556` — `avg_inference_time` is the mean of the last 10 inference times; `src/key/key-writer/system-key-writer/system-key-writer.service.ts:101-104` — `completion_status` is 1 once the capture reports.
 - **Cross-capture dimensions:** `frinksedge-inferencing-backend`: `src/dimensioning/dimensioning-registry.service.ts:60-90` — definition (Feature A and B on two camera configurations), boot-time cache that needs a restart; `src/cycle/cycle-manager.service.ts:537-540` — measured when the second capture reports, before that capture's keys (558) and row (578); `:729-742` — unresolved ones set to NG at cycle end and counted in the cycle result; `:849-889` — measurement; `system-key-writer.service.ts:159-208` — the five keys, unresolved fail. `frinksedge-deployment-frontend`: `src/modules/inferencing-customizations/dimension-configuration/DimensionsTable.jsx:56-60`, `dimensionDisplay.js:94-99` — capture names and the "⇄ CROSS-CAPTURE" badge.
+- **Per-line shape keys:** `frinksedge-inferencing-backend`: `src/key/key-writer/system-key-writer/system-key-writer.service.ts:306-340` — line angle and length written for Parallel Lines (2 lines; engine support not shipped yet) and Edge Search; `:58-61` — unregistered keys are refused and logged; `src/key/keys/system-key.ts:269-270` — `shape:<id>_line:<n>_angle/_length`. `frinksedge-deployment-backend`: `src/dao/systemKeyDefinition.ts` (comment above id 79) — not registered; `src/keys/shapeKeyMetrics.ts` — metrics per shape type; `src/keys/createKeys.ts:231-242` — per-shape key creation; `src/dao/dimensioningConfig.ts:92` — lines per shape (Parallel 2, Edge = maxResult); `src/index.ts:46`, `src/service/inferenceProcess.ts:292` — keys rebuilt at boot and on inference restart (AC11.5).
 - **Restart:** `frinksedge-deployment-backend`: `src/service/deployment.ts:1868-1906` (a deploy from an idle box restarts the inference service), `:1922-1960` (Restart All Deployments); `frinksedge-deployment-frontend`: `src/modules/deployments/RestartAllDeployments.jsx:35`. Pop-up look: `frinksedge-report-frontend`: `src/shared/ui/WarningModal.jsx`.
 
 Repos checked: frinksedge-report @ 5fe5390 (15 Oct 2026), frinksedge-report-frontend @ 9893a19 (13 Oct 2026), frinksedge-inferencing-backend @ 310c18e (22 Oct 2026), frinksedge-deployment-backend @ 7e2951e (26 Oct 2026), frinksedge-deployment-frontend @ 3c027014 (23 Oct 2026), frinksedge-health @ 2dbc622 (23 Oct 2026), vip-inference-python @ 14670bf (26 Oct 2026), frinksvision-backend @ 093a734 (26 Oct 2026), frinksvision-frontend @ 67e4d4a (26 Oct 2026), Python-inference-docker @ 62e22bd (29 May 2026), release-manager-backend @ b8016f7 (22 Sep 2026), and the other 23 repos in the skill's list, all up to date on 26 Oct 2026.
 
 ## Changelog
+- 26 October 2026 — Q1 decided: no success targets (section 8). Q3 decided: no keys are added for values that have none; Module Outputs offers every key Edge has today. Running totals are offered again: AC3.13 (removed); AC3.1–AC3.8 and AC3.10 restored; out-of-scope line removed. Edge registers the per-line angle and length keys of Parallel Lines and Edge Search shapes, listed everywhere keys are used: AC3.15, AC3.16, AC11.5 added; AC10.3, AC10.6 changed; PLC Write, Internal Action Config, Dashboard Builder added to the impact map. Duplicate pass: AC11.5 trimmed (existing rules unchanged is AC9.1); AC9.1 and non-goals say "existing" keys; summary, Key concept and US3 Today mention the per-line keys; AC3.16 notes Parallel Lines keys stay empty until the engine supports it (Tanay Deo)
 - 26 October 2026 — Only ticked keys are copied, to keep disk use down: AC12.1 changed, AC12.8 added; cycles from before a key was in use show "Not saved" (AC4.3, G2, summary changed). Changes saved while an instance is running wait for a restart, after a Warning pop-up: new US13 (AC13.1–AC13.6); AC1.5, AC2.5, AC4.1, AC10.3 changed. Keys that add up or average across cycles are no longer offered: AC3.13 added; AC3.1–AC3.8, AC3.10 and AC4.5 changed. Dimensions measured across two captures are offered under both captures: AC3.14 and AC12.7 added, AC3.11 changed, out-of-scope line removed. Segmentation in normal mode shows nothing: removed from Q3 and listed in Out of scope (Tanay Deo)
 - 26 October 2026 — Duplicate pass: AC1.5 (removed): covered by AC13.1 and AC13.6. Trimmed restated sentences: AC1.3 (layout options are AC2.9), AC1.4 (modules never listed are AC3.11), AC2.3 (Display Name on Reports and Excel is US4/US5), AC2.9 (where the layout applies is US4/US5), AC3.6 (normal mode), AC4.5 (settings show the copy, AC4.3), AC4.9 (position is AC4.1), AC5.4 (filters are AC8.5), AC7.2 (viewing is AC7.6), AC8.1 (Additional Info is AC8.3), AC9.2 (View JSON is AC8.2), AC10.3, AC10.5 (messages are AC1.6/AC2.6), AC11.2 (mechanism moved to Appendix B), AC11.4 (data untouched is AC11.1), AC12.8 (not ticked = not saved is AC12.1), AC13.2 and AC13.3. Contradictions fixed: AC4.5 "N/A" applies to "Show in same column"; AC13.4 applies to running instances; AC2.5 names the pop-up; AC12.1 points to AC12.7; release note, G2, section 2 and summary say "while in use"; stale non-goal about segmentation and bead values reworded. AC5.5 moved after AC5.4 (Tanay Deo)
 - 26 October 2026 — Reports show a copy of each key saved when the capture finished (new US12; AC4.3, AC4.5, AC9.2, AC10.3 changed; AC8.6 and AC9.3 removed). Every key of every capture is copied, ticked or not, so cycles since the release show values; older cycles show "—". Q2 (running totals) closed: they show the copy at that moment. Same Display Name across captures sharing a column, and columns for every variant's keys, confirmed (Tanay Deo)
@@ -390,6 +389,6 @@ Repos checked: frinksedge-report @ 5fe5390 (15 Oct 2026), frinksedge-report-fron
 ## Checked, not affected
 - vision-access, vision-auto-annotation, vision-captures-cameras, vision-datasets-annotations, vision-instance-creation, vision-model-evaluation, vision-model-training, vision-projects, vision-recipe-tree, vision-training-sets-recommender, vision-variants: Edge-only feature; every name it needs is already on the box after upload, and the instance package does not change.
 - mod-input-master-image, mod-search-area, mod-masking: no values of their own; their names are only used as labels.
-- edge-plc-read, edge-plc-write, edge-plc-setup, edge-internal-actions, edge-dashboard-builder, edge-live-dashboard: rules, keys and dashboards are untouched.
+- edge-plc-read, edge-plc-setup, edge-live-dashboard: rules, PLC reads and dashboards are untouched; the live dashboard shows whatever keys a dashboard already uses.
 - edge-camera-capture, edge-model-loading-variant-change, edge-storage-image-saving: capture, model loading and saved images are untouched.
 - engine-runtime-packaging, edge-installer, edge-encryption-keys, edge-networking, edge-system-time: no new libraries, steps, keys, ports or time logic; the Reports app keeps its ports.
